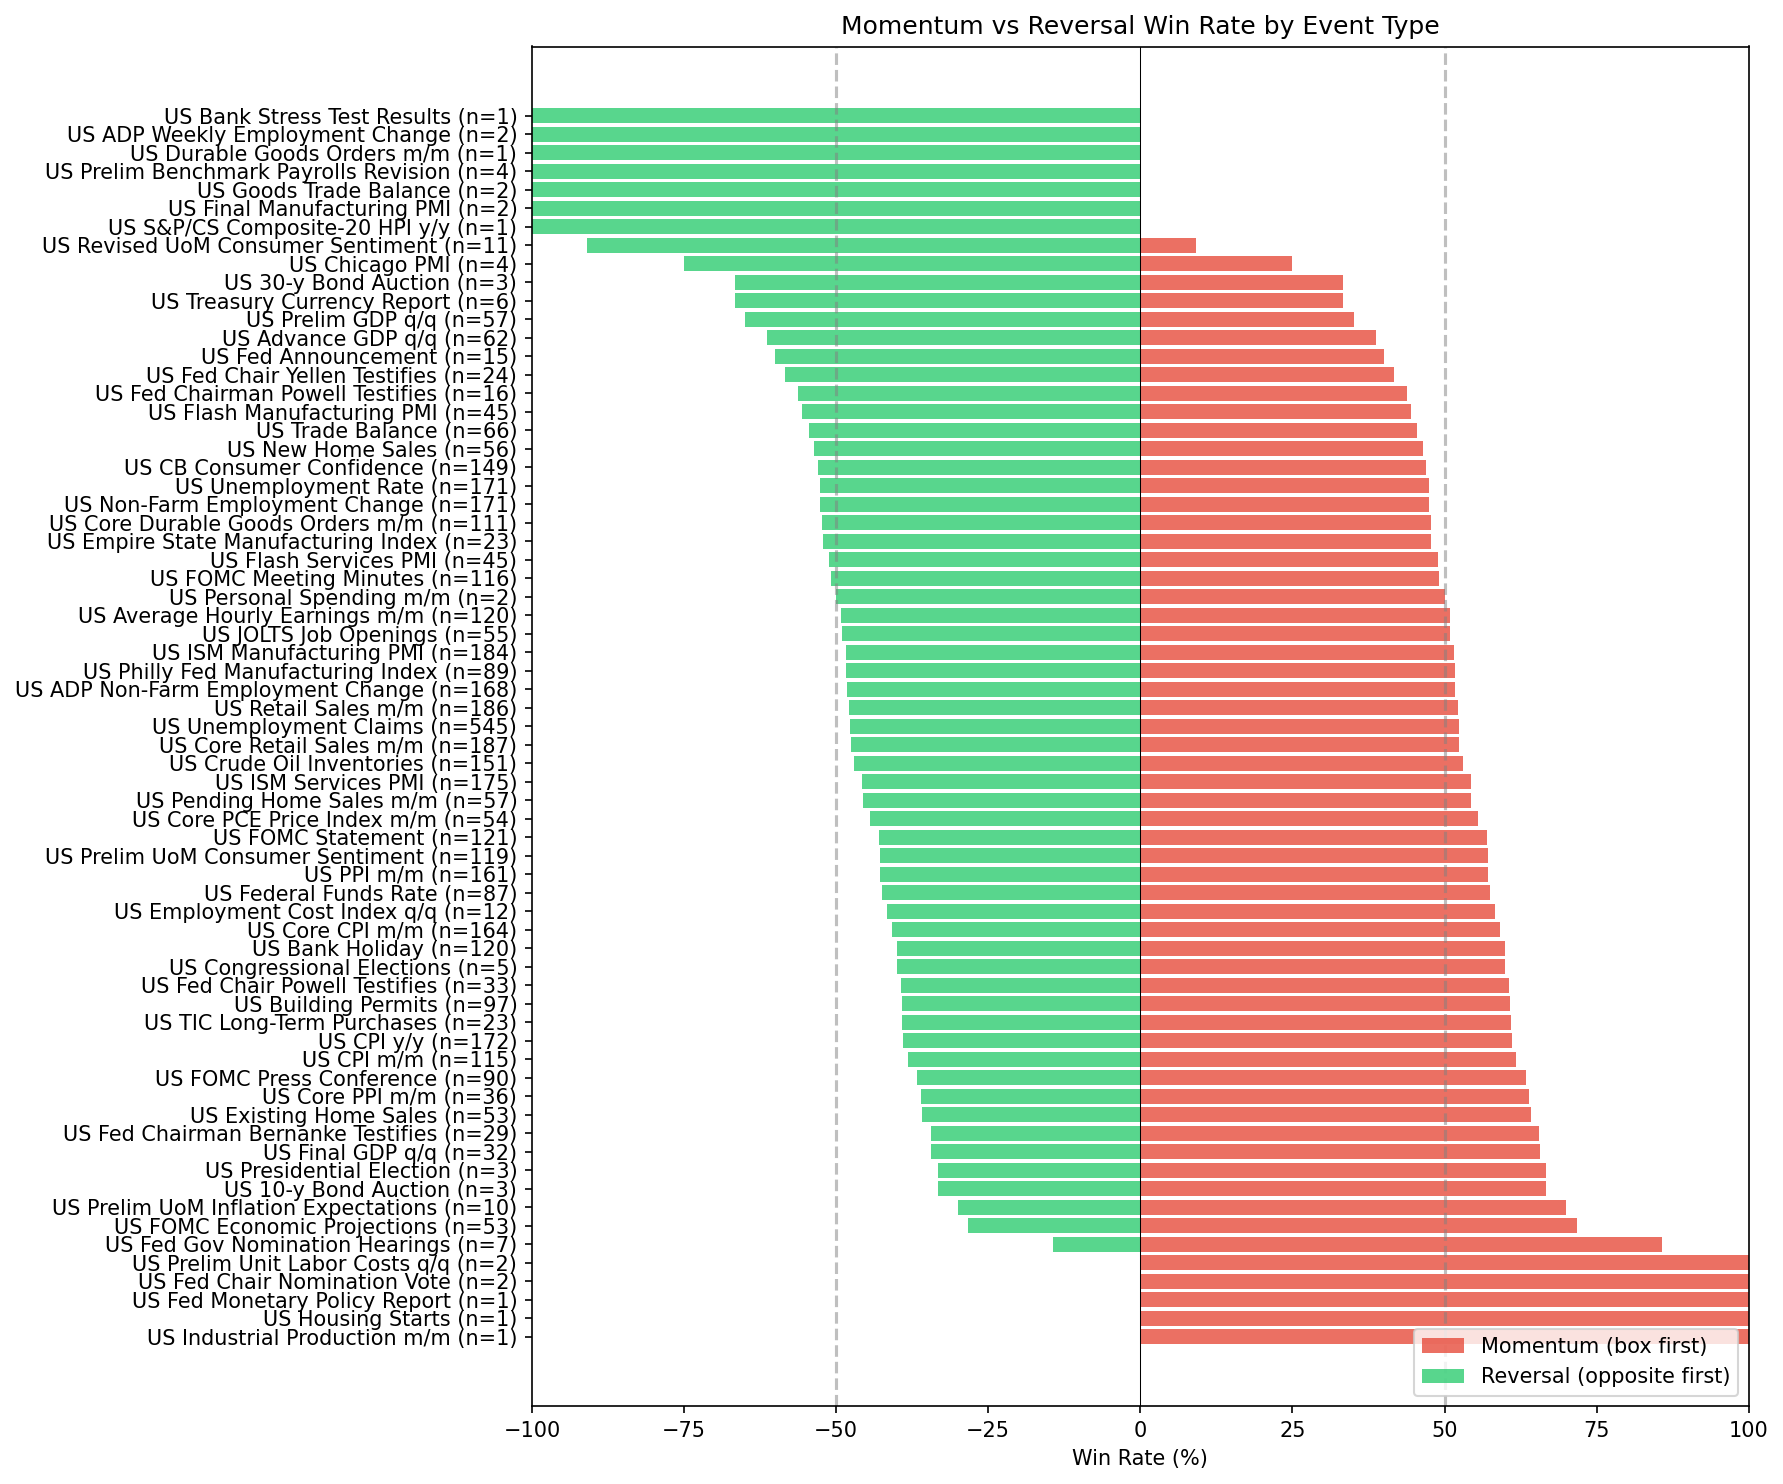
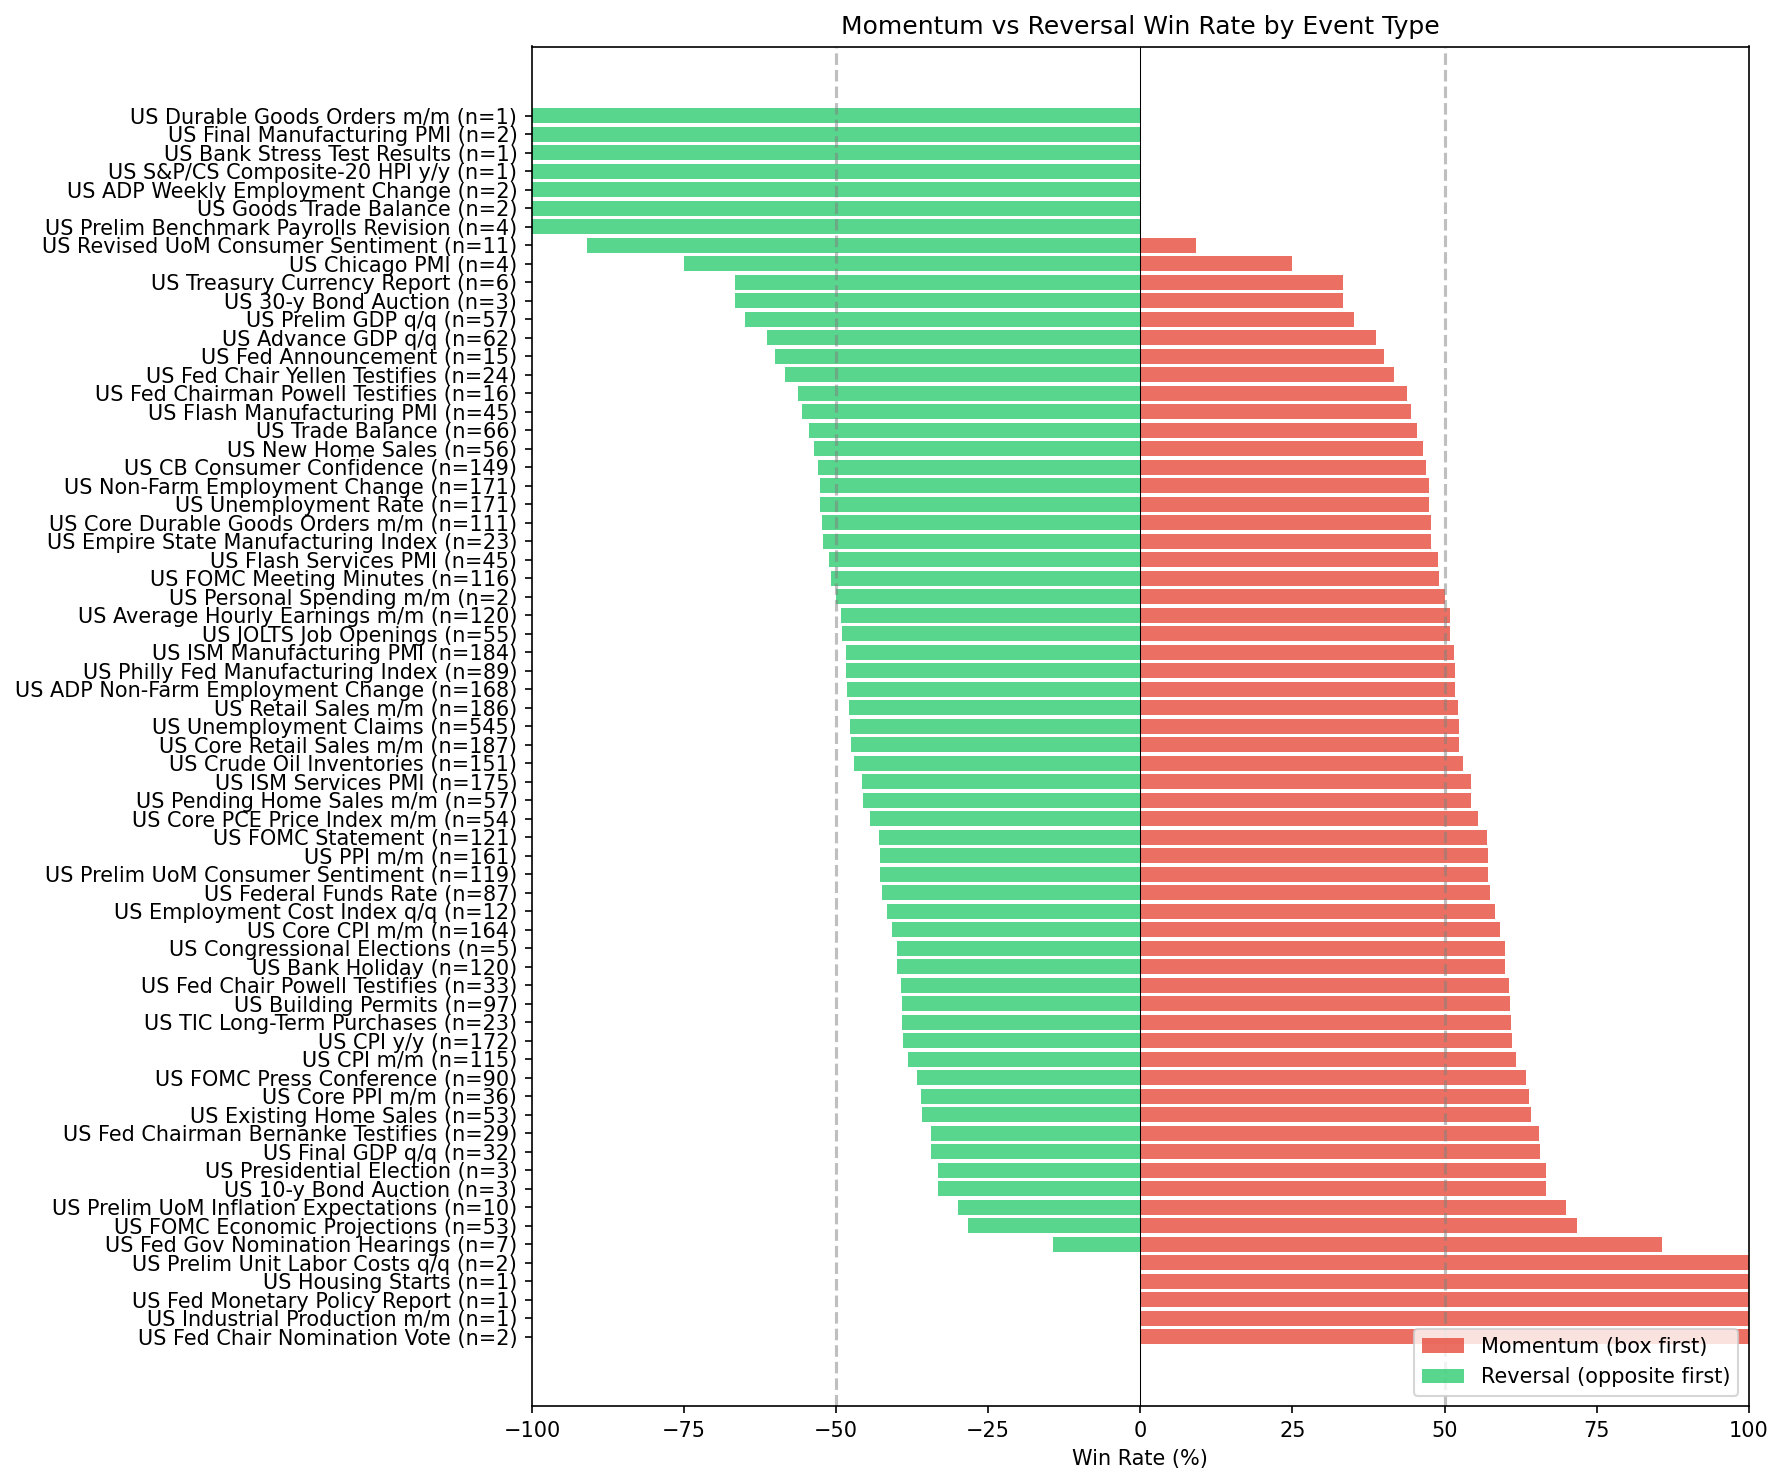
refactor(01-03): port exploration plots + run() to polars
- plot_*: feed matplotlib via get_column().to_numpy()/.to_list() at boundary
- clip(upper=N) -> clip(upper_bound=N); merge -> join; groupby mean -> group_by/agg
- run(): pl.read_parquet, value_counts 2-col DataFrame, filter/is_in/is_not_null
- write_csv replaces to_csv(index=False); printed tables via polars repr
- regenerated charts/exploration/ outputs

diff --git a/exploration.py b/exploration.py
@@ -109,14 +109,14 @@ def build_summary_table(df: pl.DataFrame) -> pl.DataFrame:
     )
 
 
-def plot_event_win_rates(by_event: pd.DataFrame, output_path: Path) -> None:
-    by_event = by_event.sort_values("reversal_rate", ascending=True)
+def plot_event_win_rates(by_event: pl.DataFrame, output_path: Path) -> None:
+    by_event = by_event.sort("reversal_rate", nulls_last=True)
     fig, ax = plt.subplots(figsize=(12, 10))
     y_pos = range(len(by_event))
-    ax.barh(y_pos, by_event["momentum_rate"], label="Momentum (box first)", color="#e74c3c", alpha=0.8)
-    ax.barh(y_pos, -by_event["reversal_rate"], label="Reversal (opposite first)", color="#2ecc71", alpha=0.8)
+    ax.barh(y_pos, by_event.get_column("momentum_rate").to_numpy(), label="Momentum (box first)", color="#e74c3c", alpha=0.8)
+    ax.barh(y_pos, -by_event.get_column("reversal_rate").to_numpy(), label="Reversal (opposite first)", color="#2ecc71", alpha=0.8)
     ax.set_yticks(list(y_pos))
-    ax.set_yticklabels([f"{e} (n={int(t)})" for e, t in zip(by_event["event_type"], by_event["resolved"])])
+    ax.set_yticklabels([f"{e} (n={int(t)})" for e, t in zip(by_event.get_column("event_type").to_list(), by_event.get_column("resolved").to_list())])
     ax.axvline(0, color="black", linewidth=0.5)
     ax.axvline(50, color="gray", linestyle="--", alpha=0.5)
     ax.axvline(-50, color="gray", linestyle="--", alpha=0.5)
@@ -129,15 +129,15 @@ def plot_event_win_rates(by_event: pd.DataFrame, output_path: Path) -> None:
     plt.close(fig)
 
 
-def plot_release_time_rates(by_time: pd.DataFrame, output_path: Path) -> None:
-    by_time = by_time.sort_values("release_time")
+def plot_release_time_rates(by_time: pl.DataFrame, output_path: Path) -> None:
+    by_time = by_time.sort("release_time")
     fig, ax = plt.subplots(figsize=(10, 5))
     x = range(len(by_time))
     width = 0.35
-    ax.bar([i - width / 2 for i in x], by_time["momentum_rate"], width, label="Momentum", color="#e74c3c")
-    ax.bar([i + width / 2 for i in x], by_time["reversal_rate"], width, label="Reversal", color="#2ecc71")
+    ax.bar([i - width / 2 for i in x], by_time.get_column("momentum_rate").to_numpy(), width, label="Momentum", color="#e74c3c")
+    ax.bar([i + width / 2 for i in x], by_time.get_column("reversal_rate").to_numpy(), width, label="Reversal", color="#2ecc71")
     ax.set_xticks(list(x))
-    ax.set_xticklabels([f"{t}\n(n={int(n)})" for t, n in zip(by_time["release_time"], by_time["resolved"])])
+    ax.set_xticklabels([f"{t}\n(n={int(n)})" for t, n in zip(by_time.get_column("release_time").to_list(), by_time.get_column("resolved").to_list())])
     ax.axhline(50, color="gray", linestyle="--", alpha=0.5, label="50% baseline")
     ax.set_ylabel("Win Rate (%)")
     ax.set_title("Momentum vs Reversal by Release Time")
@@ -147,21 +147,24 @@ def plot_release_time_rates(by_time: pd.DataFrame, output_path: Path) -> None:
     plt.close(fig)
 
 
-def plot_range_quartile_rates(df: pd.DataFrame, output_path: Path) -> pd.DataFrame:
-    working = df.copy()
-    working["range_quartile"] = qcut_with_fallback_labels(
-        working["range_pct"], 4, ["Q1 (smallest)", "Q2", "Q3", "Q4 (largest)"]
+def plot_range_quartile_rates(df: pl.DataFrame, output_path: Path) -> pl.DataFrame:
+    working = df.with_columns(
+        qcut_with_fallback_labels(
+            df.get_column("range_pct"), 4, ["Q1 (smallest)", "Q2", "Q3", "Q4 (largest)"]
+        ).alias("range_quartile")
     )
     by_range = compute_win_rates(working, ["range_quartile"])
-    avg_range = working.groupby("range_quartile", observed=False)["range_pct"].mean().reset_index(name="avg_range")
-    by_range = by_range.merge(avg_range, on="range_quartile", how="left")
+    avg_range = working.group_by("range_quartile").agg(
+        pl.col("range_pct").mean().alias("avg_range")
+    )
+    by_range = by_range.join(avg_range, on="range_quartile", how="left")
     fig, ax = plt.subplots(figsize=(8, 5))
     x = range(len(by_range))
     width = 0.35
-    ax.bar([i - width / 2 for i in x], by_range["momentum_rate"], width, label="Momentum", color="#e74c3c")
-    ax.bar([i + width / 2 for i in x], by_range["reversal_rate"], width, label="Reversal", color="#2ecc71")
+    ax.bar([i - width / 2 for i in x], by_range.get_column("momentum_rate").to_numpy(), width, label="Momentum", color="#e74c3c")
+    ax.bar([i + width / 2 for i in x], by_range.get_column("reversal_rate").to_numpy(), width, label="Reversal", color="#2ecc71")
     ax.set_xticks(list(x))
-    ax.set_xticklabels([f"{q}\n(avg {r:.2f}%)" for q, r in zip(by_range["range_quartile"], by_range["avg_range"])])
+    ax.set_xticklabels([f"{q}\n(avg {r:.2f}%)" for q, r in zip(by_range.get_column("range_quartile").to_list(), by_range.get_column("avg_range").to_list())])
     ax.axhline(50, color="gray", linestyle="--", alpha=0.5)
     ax.set_ylabel("Win Rate (%)")
     ax.set_title("Win Rate by News Impact Size (Range Quartile)")
@@ -172,21 +175,22 @@ def plot_range_quartile_rates(df: pd.DataFrame, output_path: Path) -> pd.DataFra
     return by_range
 
 
-def plot_mae_distribution(df: pd.DataFrame, output_path: Path) -> None:
+def plot_mae_distribution(df: pl.DataFrame, output_path: Path) -> None:
     fig, axes = plt.subplots(1, 2, figsize=(12, 4))
     ax1, ax2 = axes
-    ax1.hist(df["mae_before_reversal"].clip(upper=10), bins=50, edgecolor="black", alpha=0.7)
-    ax1.axvline(df["mae_before_reversal"].median(), color="red", linestyle="--", label=f"Median: {df['mae_before_reversal'].median():.2f}R")
+    mae = df.get_column("mae_before_reversal")
+    ax1.hist(mae.clip(upper_bound=10).to_numpy(), bins=50, edgecolor="black", alpha=0.7)
+    ax1.axvline(mae.median(), color="red", linestyle="--", label=f"Median: {mae.median():.2f}R")
     ax1.axvline(1, color="orange", linestyle="--", label="1R (synthetic box)")
     ax1.set_xlabel("MAE (in range units)")
     ax1.set_ylabel("Frequency")
     ax1.set_title("MAE Distribution (clipped at 10R)")
     ax1.legend()
 
-    reversal_mae = df[df["first_target_hit"] == "opposite"]["mae_before_reversal"]
-    momentum_mae = df[df["first_target_hit"] == "box"]["mae_before_reversal"]
-    ax2.hist(reversal_mae.clip(upper=5), bins=30, alpha=0.6, label=f"Reversal wins (med: {reversal_mae.median():.2f}R)", color="#2ecc71")
-    ax2.hist(momentum_mae.clip(upper=5), bins=30, alpha=0.6, label=f"Momentum wins (med: {momentum_mae.median():.2f}R)", color="#e74c3c")
+    reversal_mae = df.filter(pl.col("first_target_hit") == "opposite").get_column("mae_before_reversal")
+    momentum_mae = df.filter(pl.col("first_target_hit") == "box").get_column("mae_before_reversal")
+    ax2.hist(reversal_mae.clip(upper_bound=5).to_numpy(), bins=30, alpha=0.6, label=f"Reversal wins (med: {reversal_mae.median():.2f}R)", color="#2ecc71")
+    ax2.hist(momentum_mae.clip(upper_bound=5).to_numpy(), bins=30, alpha=0.6, label=f"Momentum wins (med: {momentum_mae.median():.2f}R)", color="#e74c3c")
     ax2.set_xlabel("MAE (in range units)")
     ax2.set_ylabel("Frequency")
     ax2.set_title("MAE by Outcome (clipped at 5R)")
@@ -198,56 +202,59 @@ def plot_mae_distribution(df: pd.DataFrame, output_path: Path) -> None:
 
 def run(input_path: Path = DEFAULT_INPUT, output_dir: Path = DEFAULT_OUTPUT_DIR, event: str = "US Non-Farm Employment Change") -> None:
     output_dir.mkdir(parents=True, exist_ok=True)
-    df = pd.read_parquet(input_path)
+    df = pl.read_parquet(input_path)
     print(f"Loaded {len(df)} events from {input_path}")
 
     by_event = compute_win_rates(df, ["event_type"])
     plot_event_win_rates(by_event, output_dir / "momentum_vs_reversal_by_event.png")
 
-    common_times = df["release_time"].value_counts()
-    common_times = common_times[common_times >= 10].index.tolist()
-    by_time = compute_win_rates(df[df["release_time"].isin(common_times)], ["release_time"])
+    vc = df.get_column("release_time").value_counts()  # cols: ["release_time", "count"]
+    common_times = vc.filter(pl.col("count") >= 10).get_column("release_time").to_list()
+    by_time = compute_win_rates(df.filter(pl.col("release_time").is_in(common_times)), ["release_time"])
     plot_release_time_rates(by_time, output_dir / "momentum_vs_reversal_by_release_time.png")
 
     by_range = plot_range_quartile_rates(df, output_dir / "win_rate_by_range_quartile.png")
     print("\nRange quartiles:")
-    print(by_range[["range_quartile", "avg_range", "resolved", "momentum_rate", "reversal_rate"]].to_string(index=False))
+    print(by_range.select(["range_quartile", "avg_range", "resolved", "momentum_rate", "reversal_rate"]))
 
     by_sweep = compute_win_rates(df, ["first_sweep"])
     print("\nFirst sweep direction:")
-    print(by_sweep[["first_sweep", "resolved", "momentum_rate", "reversal_rate"]].to_string(index=False))
+    print(by_sweep.select(["first_sweep", "resolved", "momentum_rate", "reversal_rate"]))
 
     plot_mae_distribution(df, output_dir / "mae_distribution.png")
 
-    working = df.copy()
-    working["time_quartile"] = qcut_with_fallback_labels(
-        working["time_to_first_sweep"], 4, ["Q1 (fastest)", "Q2", "Q3", "Q4 (slowest)"]
+    working = df.with_columns(
+        qcut_with_fallback_labels(
+            df.get_column("time_to_first_sweep"), 4, ["Q1 (fastest)", "Q2", "Q3", "Q4 (slowest)"]
+        ).alias("time_quartile")
     )
     by_timing = compute_win_rates(working, ["time_quartile"])
-    avg_time = working.groupby("time_quartile", observed=False)["time_to_first_sweep"].mean().reset_index(name="avg_time")
-    by_timing = by_timing.merge(avg_time, on="time_quartile", how="left")
+    avg_time = working.group_by("time_quartile").agg(
+        pl.col("time_to_first_sweep").mean().alias("avg_time")
+    )
+    by_timing = by_timing.join(avg_time, on="time_quartile", how="left")
     print("\nTiming quartiles:")
-    print(by_timing[["time_quartile", "avg_time", "resolved", "momentum_rate", "reversal_rate"]].to_string(index=False))
+    print(by_timing.select(["time_quartile", "avg_time", "resolved", "momentum_rate", "reversal_rate"]))
 
-    event_df = df[df["event_type"] == event].copy()
-    if not event_df.empty:
-        resolved = event_df[event_df["first_target_hit"].notna()]
-        momentum = (resolved["first_target_hit"] == "box").sum()
-        reversal = (resolved["first_target_hit"] == "opposite").sum()
+    event_df = df.filter(pl.col("event_type") == event)
+    if event_df.height > 0:
+        resolved = event_df.filter(pl.col("first_target_hit").is_not_null())
+        momentum = int((resolved.get_column("first_target_hit") == "box").sum())
+        reversal = int((resolved.get_column("first_target_hit") == "opposite").sum())
         print(f"\n=== {event} ===")
-        print(f"Total samples: {len(event_df)}")
-        if len(resolved) > 0:
-            print(f"Momentum wins: {momentum} ({momentum / len(resolved) * 100:.1f}%)")
-            print(f"Reversal wins: {reversal} ({reversal / len(resolved) * 100:.1f}%)")
-        print(f"Median MAE: {event_df['mae_before_reversal'].median():.2f}R")
-        print(f"Avg time to first sweep: {event_df['time_to_first_sweep'].mean():.1f} min")
-        print(event_df["first_sweep"].value_counts().to_string())
+        print(f"Total samples: {event_df.height}")
+        if resolved.height > 0:
+            print(f"Momentum wins: {momentum} ({momentum / resolved.height * 100:.1f}%)")
+            print(f"Reversal wins: {reversal} ({reversal / resolved.height * 100:.1f}%)")
+        print(f"Median MAE: {event_df.get_column('mae_before_reversal').median():.2f}R")
+        print(f"Avg time to first sweep: {event_df.get_column('time_to_first_sweep').mean():.1f} min")
+        print(event_df.get_column("first_sweep").value_counts())
 
     summary = build_summary_table(df)
     summary_path = output_dir / "summary_by_event.csv"
-    summary.to_csv(summary_path, index=False)
+    summary.write_csv(summary_path)
     print("\nSummary table:")
-    print(summary.to_string(index=False))
+    print(summary)
     print(f"\nWrote charts and summary to {output_dir}")
 
 
